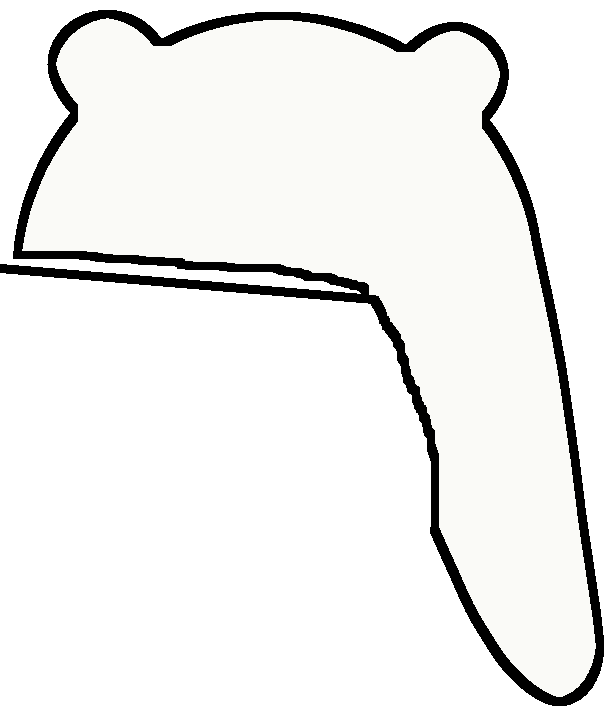
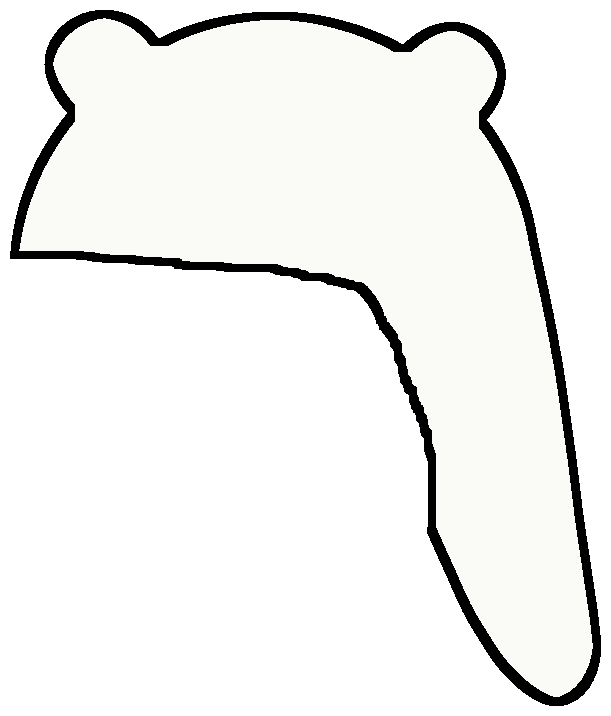
Fix feet visually breaking the box border; revert head cut to pre-straight-line art
The box's own border always paints behind its positioned children (no z-index
fixes that), so a foot crossing the border visually covered/broke the border
line. Added a .frame layer — a duplicate border between the feet and the
head/hands in z-index — so the frame now reads as passing in front of the
feet while the head/hands still cross over it as intended.

Also reverted mascot-head.png to the version right after the outline-
consistency fix (full nose, original reference-crop cut), per direct request.

Claude-Session: https://claude.ai/code/session_01HZ48UFqo4KTdtSaCHbdifH

diff --git a/app/components/MascotFrame.module.css b/app/components/MascotFrame.module.css
@@ -18,6 +18,13 @@
  *   4. `.content` is an opaque layer that exactly fills the box's inside.
  *      It sits above the feet (hides their inward half) but below the head
  *      and hands (so they can overlap it).
+ *   5. `.frame` is a second copy of `.box`'s own border, painted above the feet (but
+ *      below the head/hands). A parent's own border always paints *behind* its
+ *      positioned children — there's no z-index that puts a child under its own
+ *      parent's border — so without this, the border ring looks broken wherever a
+ *      foot crosses it. This copy patches that: feet read as passing behind the
+ *      frame, head/hands still cross in front of it (they're meant to overlap the
+ *      page; the feet aren't).
  */
 
 .box {
@@ -33,7 +40,7 @@
   --mascot-head-width: 7.8rem;
   --mascot-head-height: 9.1rem; /* matches mascot-head.png's ~0.86 aspect ratio (round head + full-length nose — it's an anteater, the nose is a feature, not a defect) */
   --mascot-head-rotation: -4deg;
-  --mascot-head-overlap: -43%; /* translateY: the straight cut edge (left side, where the "neck" was trimmed) should sit right at the border line, hidden by it; the nose dips onto the page */
+  --mascot-head-overlap: -43%; /* translateY: how far the head dips onto the page (negative = more inside); the nose is what does most of the visible "masking" */
 
   --mascot-hand-width: 6rem;
   --mascot-hand-height: 2.9rem; /* matches mascot-hand-*.png's ~2.1 aspect ratio (Gemini illustrated art) */
@@ -64,12 +71,29 @@
 .content {
   position: absolute;
   inset: 0;
-  z-index: 2; /* above the feet (hides their inward half), below the head/hands */
+  z-index: 2; /* above the feet (hides their inward half), below the frame/head/hands */
   display: flex;
   flex-direction: column;
   overflow: auto;
   background: var(--mascot-content-bg);
   border-radius: calc(var(--mascot-border-radius) - var(--mascot-border-width));
+}
+
+/* A duplicate of .box's own border, painted above the feet. A parent element's own
+   border always paints *behind* its positioned children (CSS stacking rules — there's no
+   z-index that puts a child under its own parent's border), so without this the border
+   ring looks like it breaks/gets covered wherever a foot crosses it. This copy sits at a
+   z-index between the feet and the head/hands, so the feet read as passing behind the
+   frame while the head/hands still cross in front of it (they're meant to overlap the
+   page, feet aren't). */
+.frame {
+  position: absolute;
+  inset: 0;
+  z-index: 3;
+  pointer-events: none;
+  border: var(--mascot-border-width) solid var(--mascot-color);
+  border-radius: var(--mascot-border-radius);
+  box-sizing: border-box;
 }
 
 .limb {
@@ -85,7 +109,7 @@
   height: var(--mascot-head-height);
   background: url("/images/mascot-head.png") center / contain no-repeat;
   transform: translate(-50%, var(--mascot-head-overlap)) rotate(var(--mascot-head-rotation));
-  z-index: 3; /* above .content: visibly overlaps/masks the page it's holding */
+  z-index: 4; /* above .content and .frame: visibly overlaps/masks the page it's holding */
 }
 
 /* Hands: real logo crops, mid-height on the left/right edges, gripping onto the page. */
@@ -93,7 +117,7 @@
 .handRight {
   width: var(--mascot-hand-width);
   height: var(--mascot-hand-height);
-  z-index: 3; /* above .content: visibly overlaps/masks the page it's holding */
+  z-index: 4; /* above .content and .frame: visibly overlaps/masks the page it's holding */
 }
 
 .handLeft {

diff --git a/app/components/MascotFrame.js b/app/components/MascotFrame.js
@@ -24,6 +24,7 @@ export default function MascotFrame({ children }) {
       <span className={`${styles.limb} ${styles.footLeft}`} aria-hidden="true" />
       <span className={`${styles.limb} ${styles.footRight}`} aria-hidden="true" />
       <div className={styles.content}>{children}</div>
+      <span className={styles.frame} aria-hidden="true" />
     </div>
   );
 }

diff --git a/docs/DECISIONS.md b/docs/DECISIONS.md
@@ -463,3 +463,30 @@ the cause is more likely something other than z-index (e.g. the feet's now-thick
 detailed outline reading as visually "foreground-weight" even while technically layered
 behind the page) — flagged back to the user rather than guessed at further.
 
+### The actual bug: a foot crossing the border visually broke the border line
+
+Turned out there *was* a real bug, just not in `.content`'s z-index. `.box`'s border is
+painted as part of the box's own background/border layer, and **a parent's own border
+always paints before (behind) its positioned children** — there is no z-index value on a
+child that puts it behind its own parent's border. So `.footLeft`/`.footRight`
+(`z-index: 1`) always painted on top of `.box`'s border wherever a foot's shape crossed it,
+covering that section of the border ring with the foot's fill — the foot looked like it
+broke *through* the frame rather than emerging from behind it. Confirmed by zooming into a
+screenshot at that exact crossing point: the border line visibly stopped where each foot
+crossed it.
+
+Fixed with a second element, `.frame` — a duplicate of `.box`'s border (same width, color,
+radius), absolutely positioned at `inset: 0`, `pointer-events: none`, at a z-index *between*
+the feet and the head/hands (`.content: 2`, `.frame: 3`, head/hands bumped from `3` to `4`
+to stay above it). It's pixel-identical to the real border everywhere except where it now
+also paints over the feet, patching the crossing without affecting how the head/hands cross
+the border (they're still meant to overlap on top, unaffected since they're above `.frame`
+too).
+
+### Head reverted to the pre-straight-cut version
+
+Per direct request, rolled `mascot-head.png` back to the state right after the outline-
+consistency fix — full nose, the *original* reference-image cut (not the later straight-
+line rework), re-run through the same uniform-outline pass. The straight-cut geometry
+experiments above are left in history for context but are no longer what's deployed.
+
